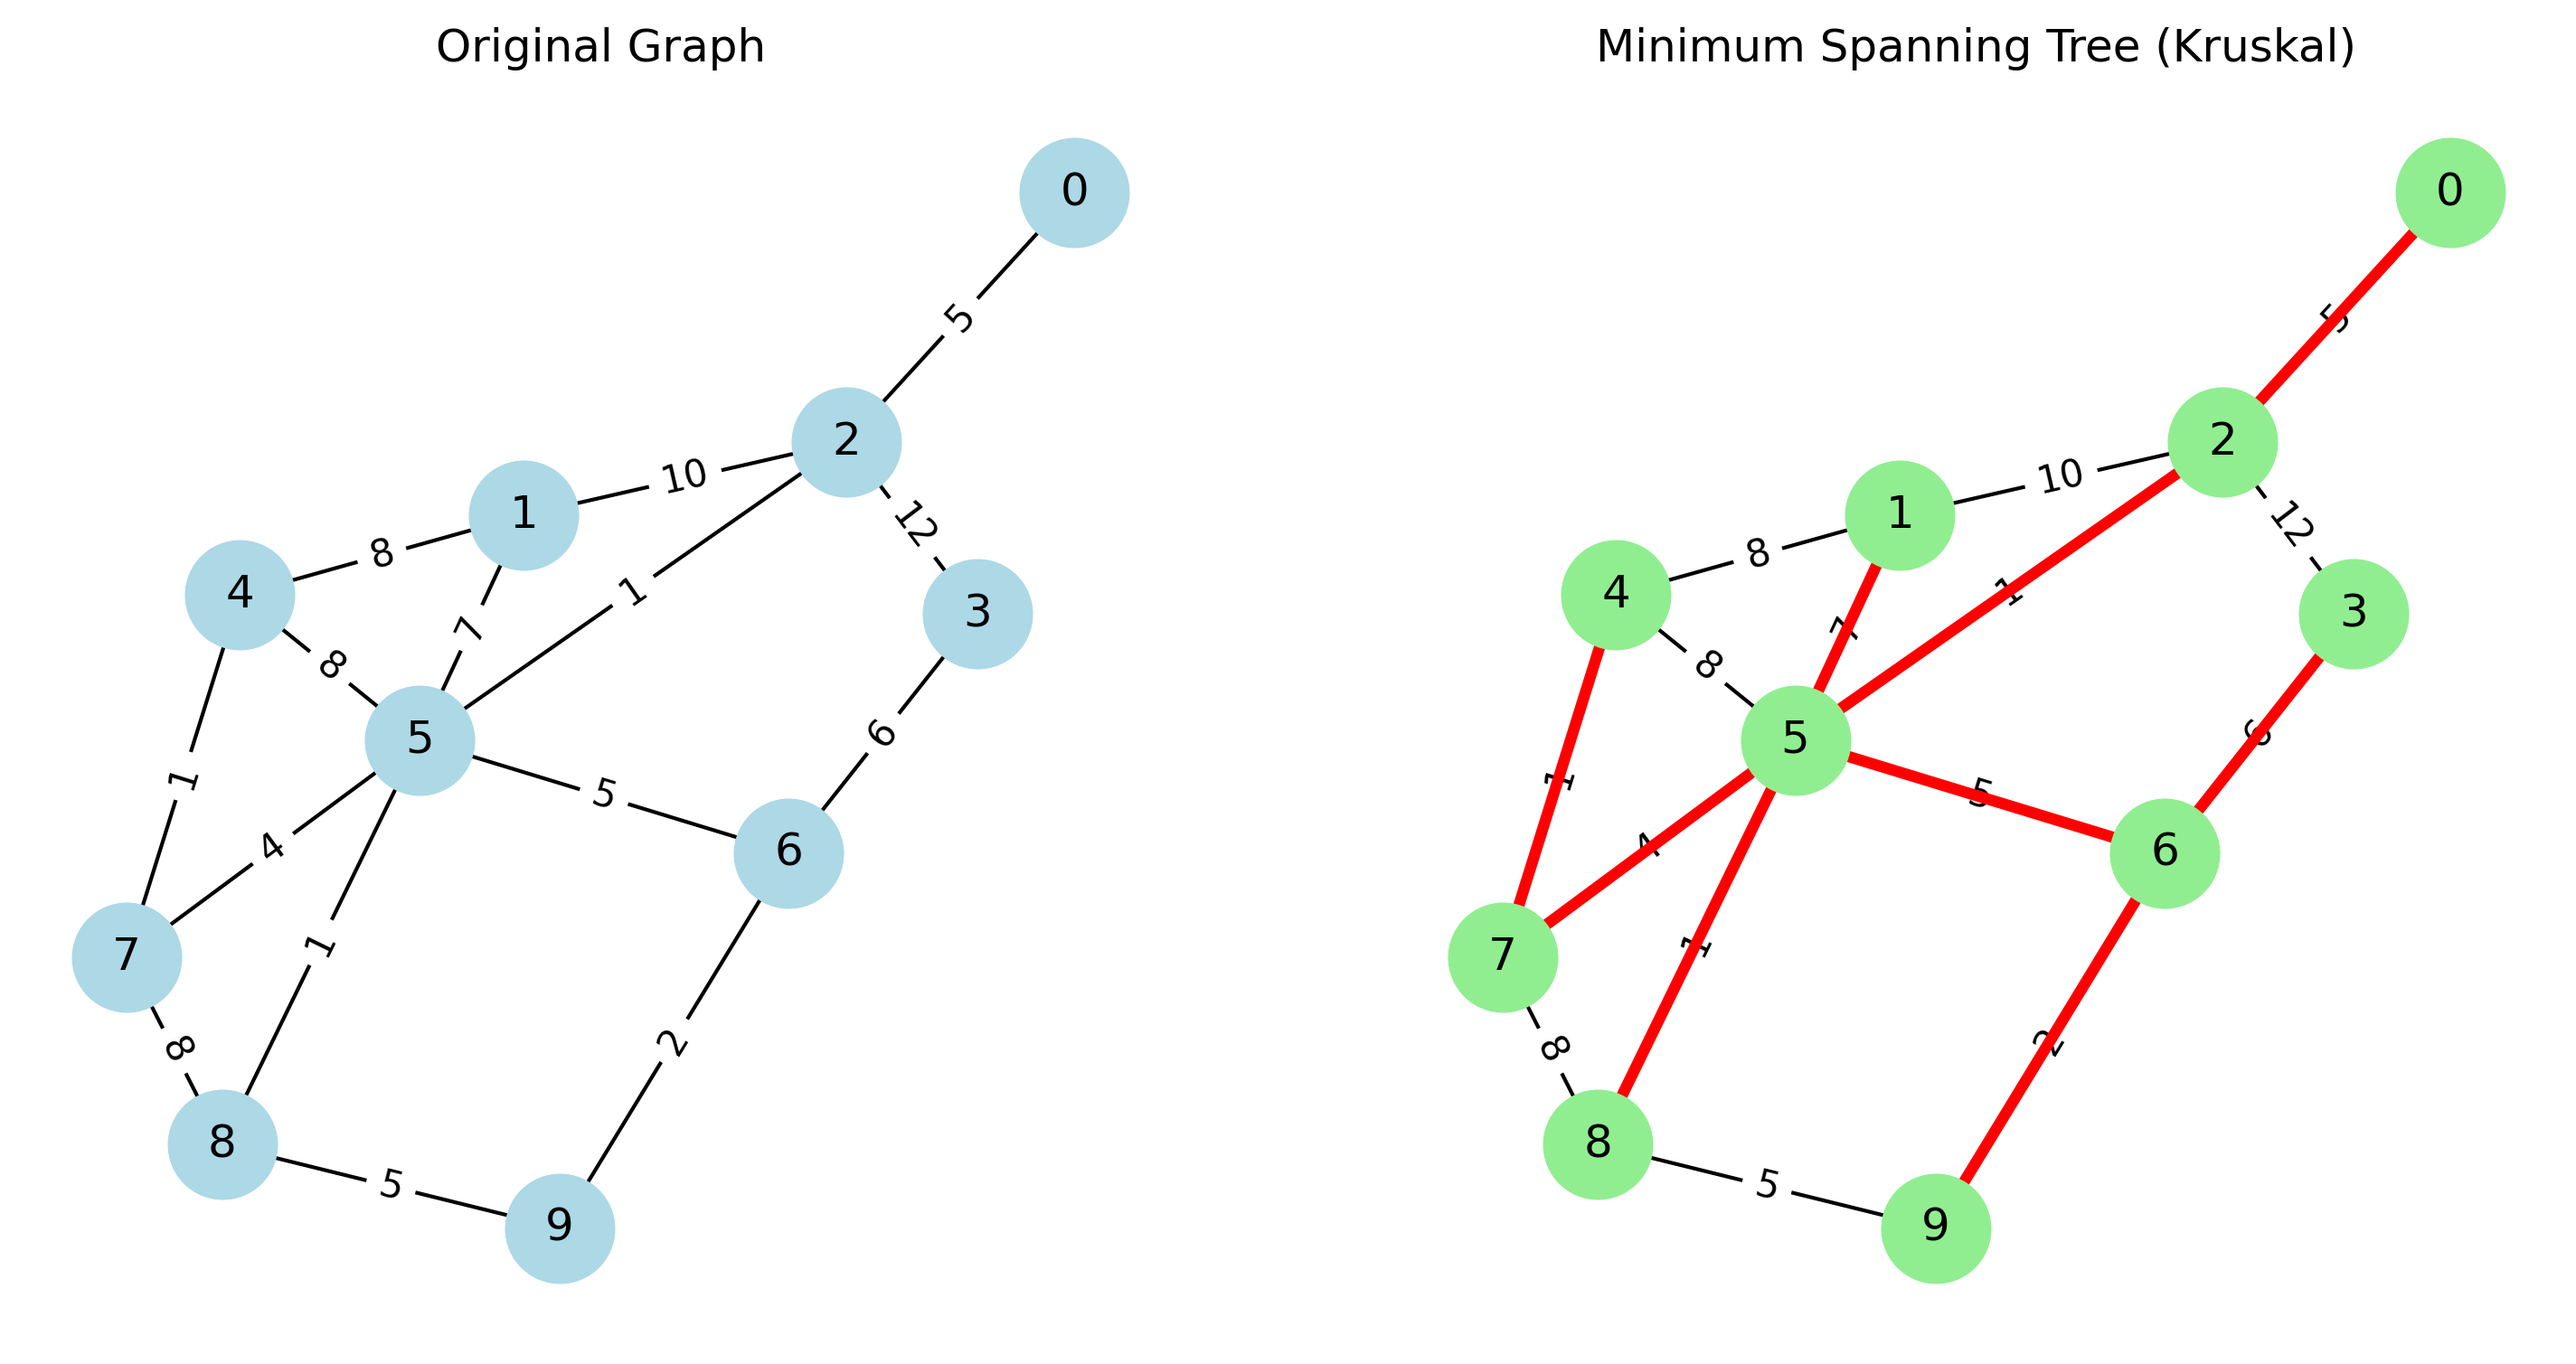
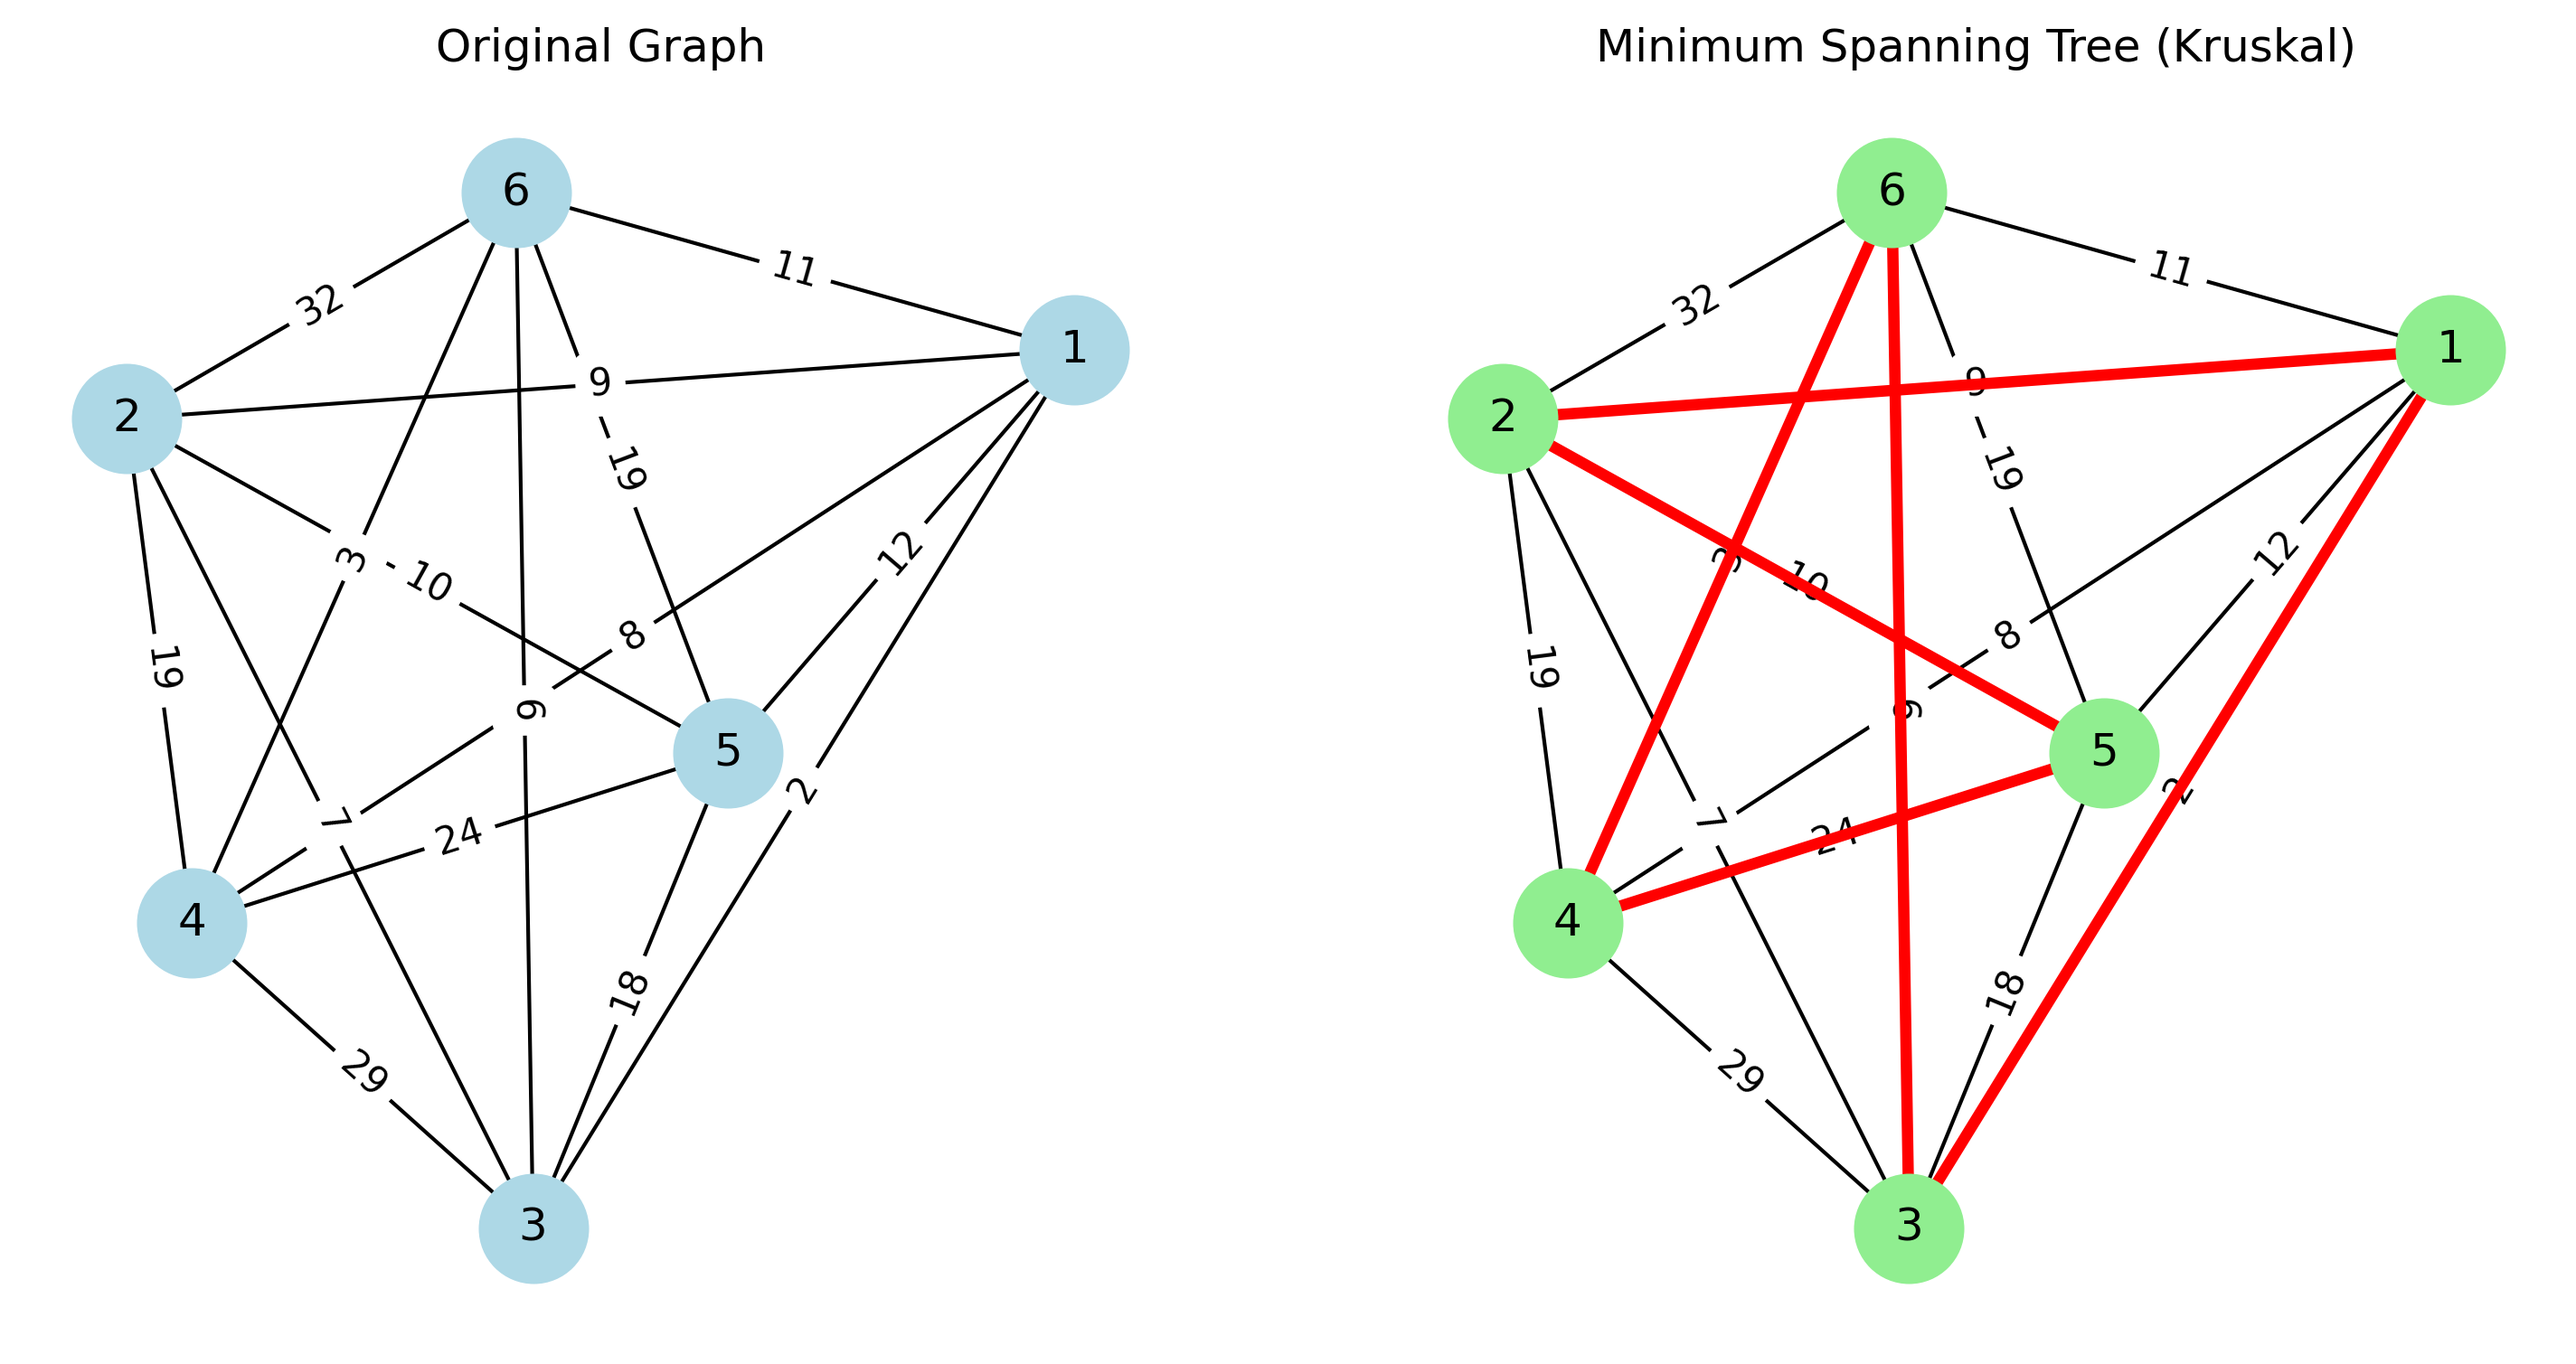
Caminhos minimos caixeiro viajante e mochila 01

diff --git a/caixeiro_viajante_Kruskal.py b/caixeiro_viajante_Kruskal.py
@@ -1,0 +1,167 @@
+import networkx as nx
+import matplotlib.pyplot as plt
+
+
+def busca_pai(lista_edges, de):
+    pai = 0
+    for edge in lista_edges:
+        if(de == edge[0]):
+            pai = edge[1]
+    return pai
+
+def encontra_pai(lista_edges, de, para):
+    pai = de
+    pai_anterior = 0
+    while pai != 0:
+        pai_anterior = pai
+        pai = busca_pai(lista_edges,pai)
+        if(pai == 0):
+            break
+        if(pai == para):
+            pai_anterior = pai
+            break
+    return pai_anterior
+
+def busca_conexao(lista_mst_aux, node):
+    lista_opcoes_caminho =[]
+    for edge in lista_mst_aux:
+        if(node == edge[0]):
+            lista_opcoes_caminho.append(edge)
+        if(node == edge[1]):
+            lista_opcoes_caminho.append(edge)
+    return lista_opcoes_caminho
+
+def encontra_caminhos(dicionario_ramos, lista_auxiliar_mst, contador_recursivo):
+    keys_iniciais = list(dicionario_ramos.keys())
+    #print("lista_auxiliar_mst: ", lista_auxiliar_mst)
+    for key in keys_iniciais:
+        no_busca = dicionario_ramos[key][-1]
+        ramos_de_conexao = busca_conexao(lista_auxiliar_mst.copy(), no_busca)
+        #print("no_busca: ", no_busca, " ramos_de_conexao: ", ramos_de_conexao)
+        
+        if(len(ramos_de_conexao) != 0):
+            ultima_lista = max(dicionario_ramos.keys())
+            contador = 1
+            for ramo in ramos_de_conexao:
+                #print(ramo)
+                lista_auxiliar_mst.remove(ramo)
+                candidato = ramo[0] if ramo[0] != no_busca else ramo[1]
+
+                if(contador == 1):
+                    dicionario_ramos[key].append(candidato)
+                else:
+                    proxima_lista = ultima_lista + 1
+                    dicionario_ramos[proxima_lista] = dicionario_ramos[key].copy()
+                    dicionario_ramos[proxima_lista].pop()
+                    dicionario_ramos[proxima_lista].append(candidato)
+                    ultima_lista += 1
+                contador += 1
+            #print(dicionario_ramos)
+        else:
+            dicionario_ramos[key].append(0)
+    contador_recursivo += 1
+    soma = 0
+    for key in keys_iniciais:
+        soma += dicionario_ramos[key][-1]
+    if(soma == 0):
+        return
+    else:
+        encontra_caminhos(dicionario_ramos,lista_auxiliar_mst, contador_recursivo)
+
+def verifica_ciclo(mst, peso, de, para):
+    booleano = True
+    print("de: ", de, " para: ", para, " peso: ", peso)
+    dicionario_ramos = {}
+    dicionario_ramos[1] = [de]
+    contador_recursivo = 0
+    if(len(mst) != 0):
+        lista_auxiliar_mst = mst.copy()
+        encontra_caminhos(dicionario_ramos, lista_auxiliar_mst, contador_recursivo)
+        keys_iniciais = list(dicionario_ramos.keys())
+        for key in keys_iniciais:
+            if(para in dicionario_ramos[key]):
+                booleano = False
+        print(dicionario_ramos)
+        #pai = encontra_pai(mst, de, para)
+        #booleano = False if para == pai else True
+        #print("pai: ", pai, " b: ", booleano)
+    return booleano
+
+def kruskal_MetaHeuristica(n, edges):
+    """
+    n: número de vértices (1 a n)
+    edges: lista de arestas no formato (peso, u, v)
+    """
+    edges.sort()  # ordena por peso
+    print(edges)
+    dict_grau = {}
+    for i in range(1, n+1):
+        dict_grau[i] = 0
+    mst = []
+    custo_total = 0
+    for peso, u, v in edges:
+        Switch = verifica_ciclo(mst, peso, u, v)
+        if(Switch or len(mst) == n-1):
+            print("len: ", len(mst))
+            if(dict_grau[u] < 2 and dict_grau[v] < 2):
+                dict_grau[u] = dict_grau[u] + 1
+                dict_grau[v] = dict_grau[v] + 1
+                mst.append((u, v, peso))
+                custo_total += peso
+                print(mst)
+                print(dict_grau)
+    return mst, custo_total
+
+edges = [
+    (9, 1, 2),
+    (2, 1, 3),
+    (8, 1, 4),
+    (12, 1, 5),
+    (11, 1, 6),
+    (7, 2, 3),
+    (19, 2, 4),
+    (10, 2, 5),
+    (32, 2, 6),
+    (29, 3, 4),
+    (18, 3, 5),
+    (6, 3, 6),
+    (24, 4, 5),
+    (3, 4, 6),
+    (19, 5, 6)
+]
+
+# Para NetworkX, precisamos (u, v, weight)
+edges_nx = [(u, v, peso) for peso, u, v in edges]
+
+# Build the graph
+G = nx.Graph()
+G.add_weighted_edges_from(edges_nx)
+
+# Run Kruskal
+#mst, custo = kruskal(10, edges)
+mst, custo = kruskal_MetaHeuristica(6, edges)
+
+print("Arestas da Árvore Geradora Mínima:", mst)
+print("Custo total:", custo)
+
+# Layout for consistent node positions
+pos = nx.spring_layout(G, seed=42)
+
+# Plot original graph
+plt.figure(figsize=(12, 6))
+
+plt.subplot(1, 2, 1)
+nx.draw(G, pos, with_labels=True, node_color="lightblue", node_size=800, font_size=12)
+nx.draw_networkx_edge_labels(G, pos, edge_labels={(u, v): d['weight'] for u, v, d in G.edges(data=True)})
+plt.title("Original Graph")
+
+# Plot MST (edges highlighted in red)
+plt.subplot(1, 2, 2)
+nx.draw(G, pos, with_labels=True, node_color="lightgreen", node_size=800, font_size=12)
+nx.draw_networkx_edge_labels(G, pos, edge_labels={(u, v): d['weight'] for u, v, d in G.edges(data=True)})
+nx.draw_networkx_edges(G, pos, edgelist=[(u, v) for u, v, w in mst], width=3, edge_color="red")
+plt.title("Minimum Spanning Tree (Kruskal)")
+
+# Save figure as PNG (high resolution)
+plt.savefig("kruskal_mst.png", dpi=300, bbox_inches="tight")
+plt.close()

diff --git a/mochila_0_1_metaheuristica.py b/mochila_0_1_metaheuristica.py
@@ -1,0 +1,27 @@
+import numpy as np
+
+# Exemplo de uso
+pesos= np.array([4, 3 , 7, 5, 3, 2, 3])   # valores dos itens
+valores = np.array([12, 8, 17, 11, 6, 2, 2])       # pesos dos itens
+
+densidade_de_valor = np.around(valores/pesos,2)
+print(densidade_de_valor)
+# Usando dict comprehension
+dicionario = {i: v for i, v in enumerate(densidade_de_valor)}
+invertido = {v: k for k, v in dicionario.items()}
+
+print(dicionario)
+ordenado = sorted(densidade_de_valor, reverse=True)
+print(ordenado)
+capacidade = 9
+
+selecao = []
+for item in ordenado:
+    peso_item = pesos[invertido[item]]
+    valor_item = valores[invertido[item]]
+    print("densidade: ", item, " peso: ", peso_item, " valor: ", valor_item)
+    if((capacidade >= 0) and (capacidade - peso_item >= 0)):
+        selecao.append(invertido[item])
+        capacidade = capacidade - peso_item
+    print("CAPACIDADE: ", capacidade)
+    print(selecao)
